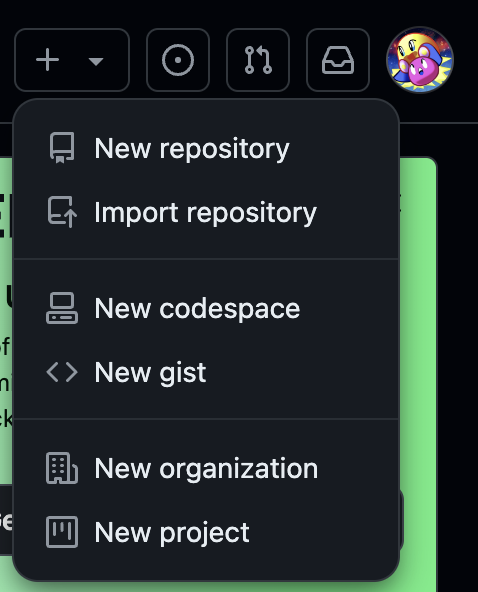
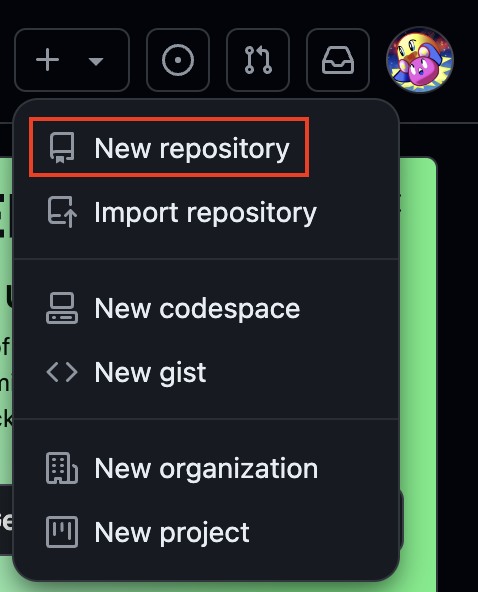
24個目追加

Changed region(s): [[0.0586, 0.1824, 0.6444, 0.3041]]

diff --git a/articles/sankaku0724-newcreate24.md b/articles/sankaku0724-newcreate24.md
@@ -13,41 +13,97 @@ published: false
 
 ## はじめに
 
-私は現在大学4年生で、卒業論文の執筆にあたり、C言語を用いたシミュレーションを行うことになりました。そして，そのプログラムを効率的に管理するため、Githubでプログラムの管理することを決意しました。本記事は、その過程で得た知見と具体的な手順をまとめたものです。
+私は現在大学4年生で、卒業論文の執筆にあたり、C言語を用いたシミュレーションを行うことになりました。そして，そのプログラムをGithubで効率的に管理することにしました。本記事は、その過程で得た知見と具体的な手順をまとめたものです。
 
 この記事が、同じく卒業研究や学術プロジェクトに取り組む学生や研究者の方々にとって、有益な情報源となれば幸いです。
 
 ### 私の動作環境
 
-- MacOS Sonoma 14.5
-- git version 2.39.3 (Apple Git-146)
+MacOS Sonoma 14.5
 
 ## Githubとは？
 
-[**GitHub**](https://github.co.jp/)は、プログラムのソースコードをオンラインで共有・管理するためのサービスです。これは、ソースコードのバージョン管理システムであるGitを基にしています。
+[**GitHub**](https://github.co.jp/)は、プログラムのソースコードをオンラインで共有・管理するためのサービスです。これは、ソースコードのバージョン管理システムであるGitを基にしたものになっています。
 
 ## Githubで管理する
 
+### 1. Githubアカウントを作成する
+
+以下のリンクからGithubの公式サイトに飛ぶことができます．
+Githubアカウントを所持していない場合は，ここからサインアップしてアカウントを作成しましょう。
+既にアカウントを持っている場合は、ログインしましょう。
+
+https://github.com/
+
+### 2. GitHubリポジトリを作成する
+
+アカウントが作成できたら，ログインし、GitHubリポジトリを作成しましょう．
+GitHubリポジトリとは、**ファイルやディレクトリの保存・管理場所**のことです．
+
+画面右上のプラスアイコン（+）をクリックし、`New repository`を選択します。
+
+![](/images/sankaku24/1.png)
+*画面右上*
+
+プラスアイコンを押すと，リポジトリの設定画面に遷移します．
+まずは，リポジトリ名を決めましょう．私は「`graduation-thesis-program`」と名付けました．
+
+また，**GitHubのリポジトリは、「Public（公開）」と「Private（非公開）」のどちらかを設定する必要があります。**
+Publicにすると，誰でもアクセスできるようになり、コードを閲覧したり、フォークしたりすることが可能です。
+Privateリポジトリにすると，指定されたアカウントのみがアクセスできるようになり、コードの閲覧や変更を制限することができます。
+
+この設定は後から変更することも可能なので，とりあえず私はPrivateにしました．
+
+![](/images/sankaku24/2.png)
+*私の設定画面*
+
+:::details リポジトリ名は日本語でつけちゃダメ！
+:::message
+[一般的にリポジトリ名は日本語の使用が推奨されていません。](https://webooker.info/2015/06/git-repository-name-rule/)
+試しに，リポジトリ名を「卒論プログラム」にしてみると，ハイフンに置換されてしまいました．
+
+![](/images/sankaku24/3.png)
+*「卒論プログラム」と名付けてみる*
+
+![](/images/sankaku24/4.png)
+*ハイフンに置換されてしまった*
+:::
+
+他の部分は特に触らなくても大丈夫です．準備が整ったら，`Create repository`を選択しましょう。
+
+![](/images/sankaku24/5.png)
+*`Create repository`を選択*
+
+ここまでの手順を行うことで，GitHubリポジトリを作成することができます．
+
+![](/images/sankaku24/6.png)
+*GitHubリポジトリの作成成功*
+
+### 3. Gitにアップロードしたいものがあるディレクトリに移動する
 
 
 
-[GitHubのリポジトリ名に日本語を使用することは推奨されません。](https://webooker.info/2015/06/git-repository-name-rule/)
+### 4. `.gitignore`ファイルを作成する
 
-graduation-thesis-program
+.gitignoreファイルは、Gitで管理しないファイルやディレクトリを指定するための設定ファイルです，
 
 touch .gitignore
 
 ```.gitignore:.gitignore
-# Ignore all text files
+# Ignore object files
+*.o
+
+# Ignore text files
 *.txt
 
-# Ignore all GIF images
+# Ignore GIF images
 *.gif
 
 # Ignore macOS system files
 .DS_Store
 ```
 
+https://qiita.com/fuwamaki/items/3ed021163e50beab7154
 
 ```
 git init
@@ -77,17 +133,6 @@ git reset --hard 32be7e487dfef458020b12b946e6122fb50c44cm
 git push origin main --force
 ```
 
-![](/images/sankaku24/1.png)
-
-![](/images/sankaku24/2.png)
-
-![](/images/sankaku24/3.png)
-
-![](/images/sankaku24/4.png)
-
-![](/images/sankaku24/5.png)
-
-![](/images/sankaku24/6.png)
 
 ![](/images/sankaku24/7.png)
 
